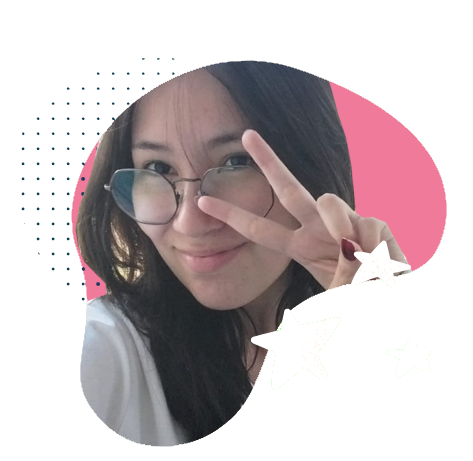
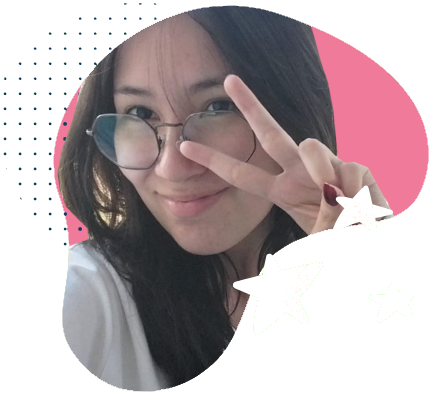
f contact

diff --git a/src/components/sidebar/Sidebar.jsx b/src/components/sidebar/Sidebar.jsx
@@ -23,12 +23,6 @@ const Sidebar = () => {
                             </a>
                         </li>
                         <li className="nav_item">
-                            <a href="#services" className="nav_link">
-                                <i className="icon-briefcase"></i>
-                            </a>
-                            
-                        </li>
-                        <li className="nav_item">
                             <a href="#resume" className="nav_link">
                                 <i className="icon-graduation"></i>
                             </a>
@@ -36,11 +30,6 @@ const Sidebar = () => {
                         <li className="nav_item">
                             <a href="#portfolio" className="nav_link">
                                 <i className="icon-layers"></i>
-                            </a>
-                        </li>
-                        <li className="nav_item">
-                            <a href="" className="nav_link">
-                                <i className="icon-note"></i>
                             </a>
                         </li>
                         <li className="nav_item">

diff --git a/src/App.js b/src/App.js
@@ -6,7 +6,6 @@ import Home from './components/home/Home';
 import About from './components/about/About';
 import Resume from './components/resume/Resume';
 import Portfolio from './components/portfolio/Portfolio';
-import Contact from './components/contact/Contact';
 
 const App = () => {
   return (
@@ -17,7 +16,6 @@ const App = () => {
         <About />
         <Resume />
         <Portfolio />
-        <Contact />
       </main>
     </> 
   )

diff --git a/src/components/portfolio/Portfolio.jsx b/src/components/portfolio/Portfolio.jsx
@@ -13,7 +13,7 @@ const Portfolio = () => {
     }
 
     return (
-        <section className="work container section" id="work">
+        <section className="work container section" id="portfolio">
             <h2 className="section_title">Experiences</h2>
 
             <div className="work_filters">

diff --git a/src/components/about/About.jsx b/src/components/about/About.jsx
@@ -1,6 +1,6 @@
 import React from 'react';
 import "./about.css";
-import AboutMe from "../../assets/logo.png";
+import AboutMe from "../../assets/eu.png";
 
 const About = () => {
     return (

diff --git a/src/components/sidebar/sidebar.css b/src/components/sidebar/sidebar.css
@@ -27,5 +27,5 @@
 }
 
 .nav_link:hover {
-    color: yellow;
+    color: var(--bright-pink);
 }
